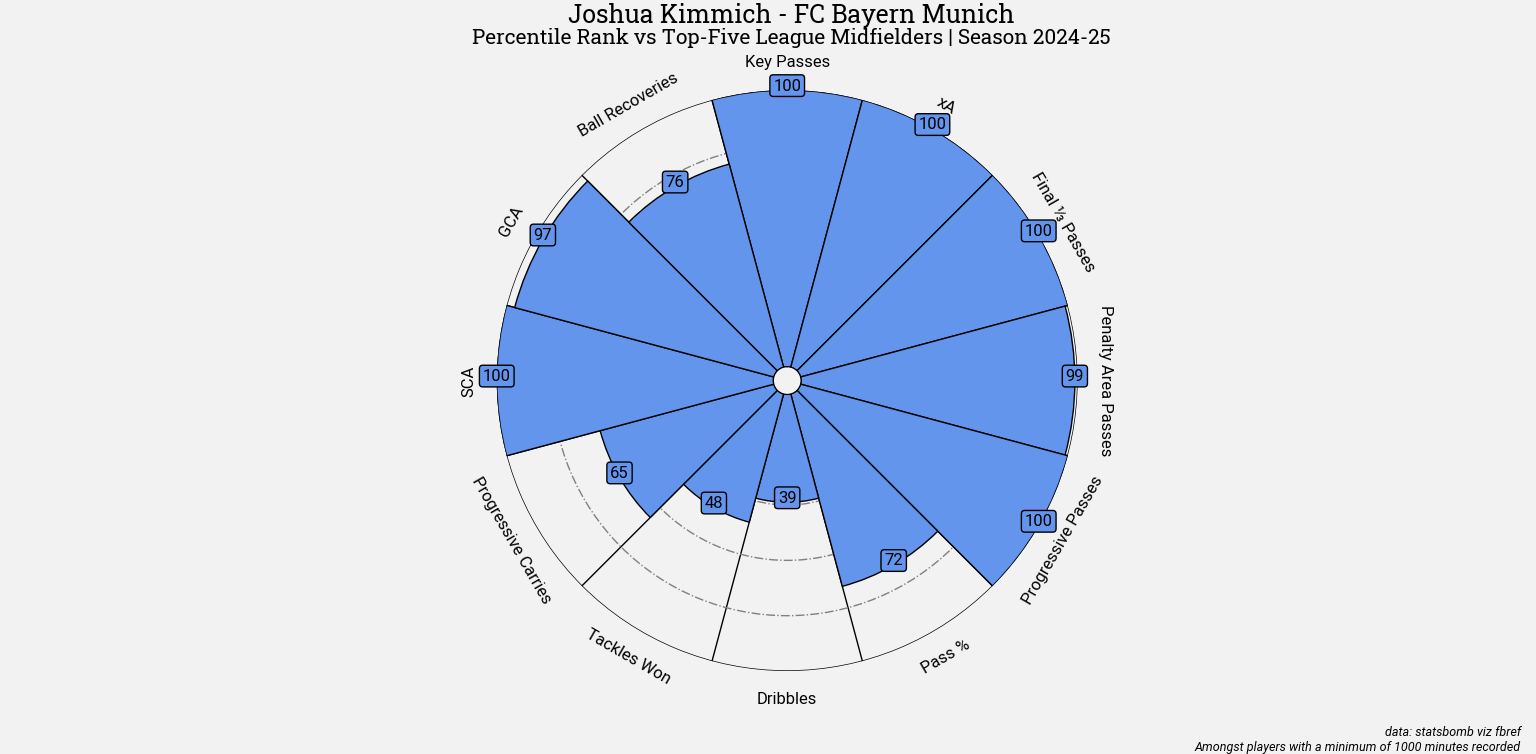
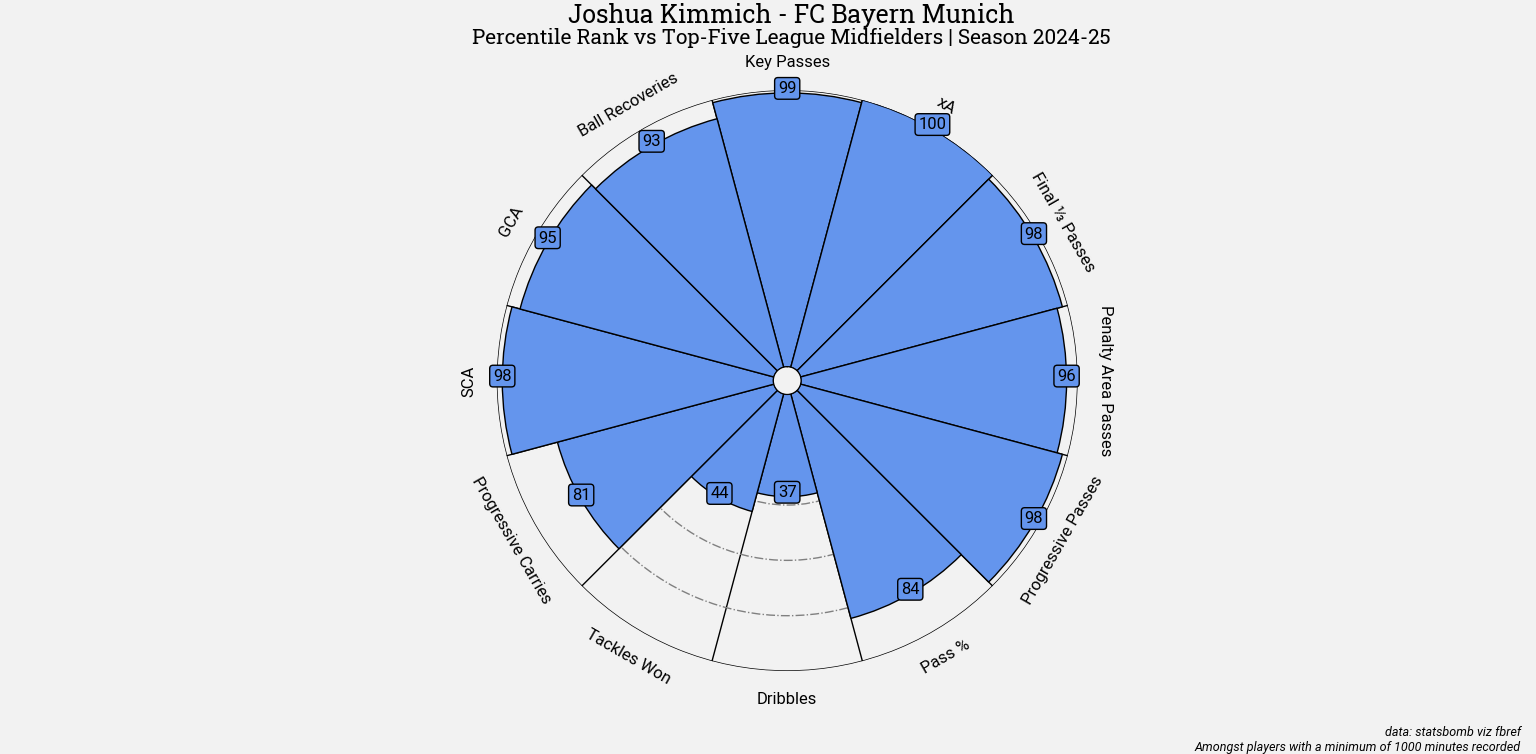
Add files via upload

diff --git a/pizza/radar.py b/pizza/radar.py
@@ -2,102 +2,82 @@ from mplsoccer import PyPizza, FontManager
 import matplotlib.pyplot as plt
 import numpy as np
 import pandas as pd
+from scipy.stats import percentileofscore
 
-font_normal = FontManager('https://raw.githubusercontent.com/googlefonts/roboto/main/'
-                          'src/hinted/Roboto-Regular.ttf')
-font_italic = FontManager('https://raw.githubusercontent.com/googlefonts/roboto/main/'
-                          'src/hinted/Roboto-Italic.ttf')
-font_bold = FontManager('https://raw.githubusercontent.com/google/fonts/main/apache/robotoslab/'
-                        'RobotoSlab[wght].ttf')
+# Load fonts
+font_normal = FontManager('https://raw.githubusercontent.com/googlefonts/roboto/main/src/hinted/Roboto-Regular.ttf')
+font_italic = FontManager('https://raw.githubusercontent.com/googlefonts/roboto/main/src/hinted/Roboto-Italic.ttf')
+font_bold = FontManager('https://raw.githubusercontent.com/google/fonts/main/apache/robotoslab/RobotoSlab[wght].ttf')
 
+# Load data
 data_folder = "big5_2025_player_data"
-
-# Load only the relevant columns from each CSV
 passing = pd.read_csv(f"{data_folder}/big5_player_passing_2025.csv")[['Player', 'KP', 'PrgP', 'Cmp_percent_Total', 'Pos', 'xA_Expected', 'Final_Third', 'PPA']]
-possession = pd.read_csv(f"{data_folder}/big5_player_possession_2025.csv")[['Player', 'Succ_Take', 'PrgC_Carries',]]
+possession = pd.read_csv(f"{data_folder}/big5_player_possession_2025.csv")[['Player', 'Succ_Take', 'PrgC_Carries']]
 defense = pd.read_csv(f"{data_folder}/big5_player_defense_2025.csv")[['Player', 'TklW_Tackles', 'Int']]
 time = pd.read_csv(f"{data_folder}/big5_player_playing_time_2025.csv")[['Player', 'Min_Playing.Time']]
-sca = pd.read_csv((f"{data_folder}/big5_player_gca_2025.csv"))[['Player', 'SCA_SCA', 'SCA90_SCA', 'GCA_GCA', 'GCA90_GCA']]
-misc = pd.read_csv((f"{data_folder}/big5_player_misc_2025.csv"))[['Player', 'Recov']]
+sca = pd.read_csv(f"{data_folder}/big5_player_gca_2025.csv")[['Player', 'SCA_SCA', 'SCA90_SCA', 'GCA_GCA', 'GCA90_GCA']]
+misc = pd.read_csv(f"{data_folder}/big5_player_misc_2025.csv")[['Player', 'Recov']]
 
-# Merge safely
+# Merge datasets
 df = passing.merge(possession, on='Player', how='inner') \
             .merge(defense, on='Player', how='inner') \
             .merge(time, on='Player', how='inner') \
             .merge(sca, on='Player', how='inner') \
             .merge(misc, on='Player', how='inner') 
 
-# Filter players with sufficient playing time
+# Filter by minutes and position
 df = df[df['Min_Playing.Time'] > 1000]
-
-# Filter midfielders and explicitly make a copy to avoid chained assignment
 midfield_positions = ['MF', 'Midfielder', 'CM', 'DM']
 df_midfielders = df[df['Pos'].isin(midfield_positions)].copy()
 
-# Calculate per90 metrics and pass percentage using .loc to avoid warnings
-df_midfielders.loc[:, 'KP_per90'] = df_midfielders['KP'] / df_midfielders['Min_Playing.Time'] * 90
-df_midfielders.loc[:, 'xA_per90'] = df_midfielders['xA_Expected'] / df_midfielders['Min_Playing.Time'] * 90
-df_midfielders.loc[:, 'F3_per90'] = df_midfielders['Final_Third'] / df_midfielders['Min_Playing.Time'] * 90
-df_midfielders.loc[:, 'PPA_per90'] = df_midfielders['PPA'] / df_midfielders['Min_Playing.Time'] * 90
-df_midfielders.loc[:, 'PrgP_per90'] = df_midfielders['PrgP'] / df_midfielders['Min_Playing.Time'] * 90
-df_midfielders.loc[:, 'PassPct'] = df_midfielders['Cmp_percent_Total']  # Already a percentage
-df_midfielders.loc[:, 'Dribbles_per90'] = df_midfielders['Succ_Take'] / df_midfielders['Min_Playing.Time'] * 90
-df_midfielders.loc[:, 'TacklesWon_per90'] = df_midfielders['TklW_Tackles'] / df_midfielders['Min_Playing.Time'] * 90
-df_midfielders.loc[:, 'PrgC_per90'] = df_midfielders['PrgC_Carries'] / df_midfielders['Min_Playing.Time'] * 90
-df_midfielders.loc[:, 'SCA_per90'] = df_midfielders['SCA90_SCA'] 
-df_midfielders.loc[:, 'GCA_per90'] = df_midfielders['GCA90_GCA'] 
-df_midfielders['Recov'] = (df_midfielders['Recov'] / df_midfielders['Min_Playing.Time'] * 90).astype(float)
+# Per90 calculations
+df_midfielders['KP_per90'] = df_midfielders['KP'] / df_midfielders['Min_Playing.Time'] * 90
+df_midfielders['xA_per90'] = df_midfielders['xA_Expected'] / df_midfielders['Min_Playing.Time'] * 90
+df_midfielders['F3_per90'] = df_midfielders['Final_Third'] / df_midfielders['Min_Playing.Time'] * 90
+df_midfielders['PPA_per90'] = df_midfielders['PPA'] / df_midfielders['Min_Playing.Time'] * 90
+df_midfielders['PrgP_per90'] = df_midfielders['PrgP'] / df_midfielders['Min_Playing.Time'] * 90
+df_midfielders['PassPct'] = df_midfielders['Cmp_percent_Total']
+df_midfielders['Dribbles_per90'] = df_midfielders['Succ_Take'] / df_midfielders['Min_Playing.Time'] * 90
+df_midfielders['TacklesWon_per90'] = df_midfielders['TklW_Tackles'] / df_midfielders['Min_Playing.Time'] * 90
+df_midfielders['PrgC_per90'] = df_midfielders['PrgC_Carries'] / df_midfielders['Min_Playing.Time'] * 90
+df_midfielders['SCA_per90'] = df_midfielders['SCA90_SCA']
+df_midfielders['GCA_per90'] = df_midfielders['GCA90_GCA']
+df_midfielders['Recov'] = df_midfielders['Recov'] / df_midfielders['Min_Playing.Time'] * 90
 
-# Extract the player row from df_midfielders (where the new columns exist)
-player_name = 'Vitinha'
-bergvall_row = df_midfielders[df_midfielders['Player'] == player_name]
+# Select player
+player_name = 'Joshua Kimmich'
+player_row = df_midfielders[df_midfielders['Player'] == player_name]
 
-if bergvall_row.empty:
+if player_row.empty:
     raise ValueError(f"{player_name} not found in dataset")
 
-player_stats = [
-    bergvall_row['KP_per90'].values[0],
-    bergvall_row['xA_per90'].values[0],
-    bergvall_row['F3_per90'].values[0],
-    bergvall_row['PPA_per90'].values[0],
-    bergvall_row['PrgP_per90'].values[0],
-    bergvall_row['PassPct'].values[0],
-    bergvall_row['Dribbles_per90'].values[0],
-    bergvall_row['TacklesWon_per90'].values[0],
-    bergvall_row['PrgC_per90'].values[0],
-    bergvall_row['SCA_per90'].values[0],
-    bergvall_row['GCA_per90'].values[0],
-    bergvall_row['Recov'].values[0],
-]
+# Columns and labels
+stat_columns = ['KP_per90', 'xA_per90', 'F3_per90', 'PPA_per90', 'PrgP_per90',
+                'PassPct', 'Dribbles_per90', 'TacklesWon_per90', 'PrgC_per90',
+                'SCA_per90', 'GCA_per90', 'Recov']
 
-# Calculate mean and std for z-score normalization
-peer_mean = df_midfielders[['KP_per90', 'xA_per90', 'F3_per90', 'PPA_per90', 'PrgP_per90',
-                            'PassPct', 'Dribbles_per90', 'TacklesWon_per90', 'PrgC_per90',
-                            'SCA_per90', 'GCA_per90', 'Recov']].mean().tolist()
+params = ['Key Passes', 'xA', 'Final ⅓ Passes', 'Penalty Area Passes', 'Progressive Passes',
+          'Pass %', 'Dribbles', 'Tackles Won', 'Progressive Carries',
+          'SCA', 'GCA', 'Ball Recoveries']
 
-peer_std = df_midfielders[['KP_per90', 'xA_per90', 'F3_per90', 'PPA_per90', 'PrgP_per90',
-                           'PassPct', 'Dribbles_per90', 'TacklesWon_per90', 'PrgC_per90',
-                           'SCA_per90', 'GCA_per90', 'Recov']].std().tolist()
+# Calculate percentile scores
+values_100_rounded = []
+for col in stat_columns:
+    player_val = player_row[col].values[0]
+    peer_vals = df_midfielders[col].values
+    perc = percentileofscore(peer_vals, player_val, kind='rank')
+    values_100_rounded.append(round(perc))
 
-# Apply z-score normalization and scale to 0–1 for visualization (clamp between 0 and 1)
-values = []
-for val, mean, std in zip(player_stats, peer_mean, peer_std):
-    if std == 0:
-        z = 0
-    else:
-        z = (val - mean) / std
-    # Optional: scale to 0–1 using a sigmoid-like clamp, or custom min/max range
-    scaled = (z + 2) / 4  # this maps z ≈ -2 to 0, z ≈ +2 to 1
-    values.append(np.clip(scaled, 0, 1))
+print(values_100_rounded)
+print(f"\nStat values for {player_name}:\n" + "-"*40)
+for label, col in zip(params, stat_columns):
+    value = player_row[col].values[0]
+    print(f"{label:<25}: {value:.2f}")
 
 
-params = ['Key Passes', 'xA', 'Final ⅓ Passes', 'Penalty Area Passes', 'Progressive Passes', 'Pass %', 'Dribbles', 'Tackles Won', 'Progressive Carries', 'SCA', 'GCA', 'Ball Recoveries']
-values_100 = [v * 100 for v in values]
-values_100_rounded = [round(v) for v in values_100]
-
-# Create pizza plot
+# Create radar chart
 baker = PyPizza(
-    params=params,                  
+    params=params,
     straight_line_color="#000000",
     straight_line_lw=1,
     last_circle_lw=1,
@@ -128,7 +108,7 @@ fig, ax = baker.make_pizza(
 )
 
 fig.text(
-    0.515, 0.97, f"{player_name} - Paris Saint-Germain", size=18,
+    0.515, 0.97, f"{player_name} - FC Bayern Munich", size=18,
     ha="center", fontproperties=font_bold.prop, color="#000000"
 )
 
@@ -139,14 +119,10 @@ fig.text(
     ha="center", fontproperties=font_bold.prop, color="#000000"
 )
 
-# add credits
-CREDIT_1 = "data: statsbomb viz fbref"
-CREDIT_2 = "Amongst players with a minimum of 1000 minutes recorded"
-
 fig.text(
-    0.99, 0.005, f"{CREDIT_1}\n{CREDIT_2}", size=9,
-    fontproperties=font_italic.prop, color="#000000",
-    ha="right"
+    0.99, 0.005, "data: statsbomb viz fbref\nAmongst players with a minimum of 1000 minutes recorded",
+    size=9, fontproperties=font_italic.prop, color="#000000", ha="right"
 )
 
 plt.show()
+
